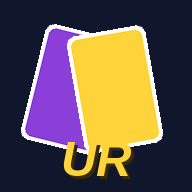
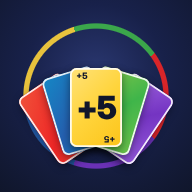
Ícone novo do app e prévia bonita dos links (WhatsApp etc.), com o nome da sala
Claude-Session: https://claude.ai/code/session_017JtU8DGBfDivVCDgt9k8ra

diff --git a/servidor/servidor.js b/servidor/servidor.js
@@ -21,19 +21,35 @@ const ESPERA_SALA = 3 * 60 * 1000;      // na sala de espera, quem caiu (ex.: fo
 const log = (...a) => console.log(new Date().toISOString().slice(11, 19), ...a);
 
 // ---------------- site ----------------
-const MIME = { '.html': 'text/html; charset=utf-8', '.js': 'text/javascript', '.css': 'text/css', '.webp': 'image/webp', '.png': 'image/png', '.mp3': 'audio/mpeg', '.json': 'application/json', '.svg': 'image/svg+xml', '.ico': 'image/x-icon', '.webmanifest': 'application/manifest+json' };
+const MIME = { '.html': 'text/html; charset=utf-8', '.js': 'text/javascript', '.css': 'text/css', '.webp': 'image/webp', '.png': 'image/png', '.jpg': 'image/jpeg', '.mp3': 'audio/mpeg', '.json': 'application/json', '.svg': 'image/svg+xml', '.ico': 'image/x-icon', '.webmanifest': 'application/manifest+json' };
 const CABECALHO = '<!doctype html><html lang="pt-BR"><head><meta charset="utf-8">'
   + '<meta name="viewport" content="width=device-width, initial-scale=1, viewport-fit=cover"><base href="/">'
   + '<meta name="theme-color" content="#10162B"><link rel="manifest" href="/manifest.webmanifest">'
-  + '<link rel="icon" href="/icone-192.png"><link rel="apple-touch-icon" href="/icone-192.png">'
+  + '<link rel="icon" href="/icone-192.png"><link rel="apple-touch-icon" href="/icone-180.png">'
   + '<meta name="apple-mobile-web-app-capable" content="yes"><meta name="mobile-web-app-capable" content="yes">'
   + '<meta name="apple-mobile-web-app-status-bar-style" content="black-translucent"><meta name="apple-mobile-web-app-title" content="Uno Resenhas">'
   + '<style>:root{padding-top:env(safe-area-inset-top,0px);padding-bottom:env(safe-area-inset-bottom,0px)}body{margin:0}img{max-width:100%}[hidden]{display:none!important}</style>';
+// Prévia do link (WhatsApp, Telegram, Instagram…): título, texto e a imagem og.jpg.
+// No link de uma sala, o título diz o nome da sala.
+const escHtml = (t) => String(t).replace(/[&<>"]/g, (c) => ({ '&': '&amp;', '<': '&lt;', '>': '&gt;', '"': '&quot;' }[c]));
+function previa(req, caminho) {
+  const proto = String(req.headers['x-forwarded-proto'] || 'http').split(',')[0];
+  const base = `${proto}://${req.headers.host}`;
+  const sala = caminho.startsWith('/s/') ? salas.get(caminho.slice(3, 8).toUpperCase()) : null;
+  const titulo = sala ? `Entra na mesa "${sala.nome}" · Uno Resenhas` : 'Uno Resenhas';
+  const texto = sala ? `Bora jogar! Sala ${sala.codigo}${sala.config.salaAberta ? ' · sala aberta' : ''}. 5 cores, +5, Ctrl+C e muita resenha.` : '5 cores, +5, Ctrl+C e muita resenha. Jogue online com os amigos, direto no navegador.';
+  const t = escHtml(titulo), d = escHtml(texto);
+  return `<meta name="description" content="${d}"><meta property="og:type" content="website"><meta property="og:site_name" content="Uno Resenhas">`
+    + `<meta property="og:title" content="${t}"><meta property="og:description" content="${d}"><meta property="og:url" content="${escHtml(base + caminho)}">`
+    + `<meta property="og:image" content="${base}/og.jpg"><meta property="og:image:width" content="1200"><meta property="og:image:height" content="630">`
+    + `<meta name="twitter:card" content="summary_large_image"><meta name="twitter:title" content="${t}"><meta name="twitter:description" content="${d}"><meta name="twitter:image" content="${base}/og.jpg">`;
+}
 const servidor = http.createServer((req, res) => {
   const url = new URL(req.url, 'http://x');
   let caminho = decodeURIComponent(url.pathname);
   if (caminho === '/saude') { res.writeHead(200, { 'content-type': 'text/plain' }); return res.end('ok'); }
   if (caminho === '/salas') { res.writeHead(200, { 'content-type': 'application/json', 'cache-control': 'no-store' }); return res.end(JSON.stringify(salasParaEntrar())); }
+  const pedido = caminho;
   if (caminho === '/' || caminho.startsWith('/s/')) caminho = '/index.html';
   const arquivo = path.join(RAIZ, path.normalize(caminho));
   if (!arquivo.startsWith(RAIZ)) { res.writeHead(403); return res.end(); }
@@ -42,7 +58,7 @@ const servidor = http.createServer((req, res) => {
     const ext = path.extname(arquivo).toLowerCase();
     // a página do jogo ganha o cabeçalho de site: tela de celular, ícone de app e base "/"
     // (a base faz as cartas carregarem também nos links de sala, /s/CODIGO)
-    if (arquivo.endsWith('index.html')) dados = Buffer.concat([Buffer.from(CABECALHO), dados]);
+    if (arquivo.endsWith('index.html')) dados = Buffer.concat([Buffer.from(CABECALHO + previa(req, pedido)), dados]);
     // tudo é conferido com o servidor (no-cache + ETag): arte nova de carta aparece na hora,
     // e o que não mudou volta como "304" (sem baixar de novo)
     const etag = '"' + createHash('md5').update(dados).digest('hex').slice(0, 16) + '"';

diff --git a/web/publico/sw.js b/web/publico/sw.js
@@ -1,7 +1,7 @@
 // Uno Resenhas — guarda cartas, sons e ícones no celular.
 // Sempre confere com o servidor primeiro (arte nova aparece na hora; o que não mudou volta
 // como "304", sem baixar de novo). Sem internet ou com o servidor lento, usa o que está guardado.
-const CACHE = 'uno-resenhas-v4'; // mude a versão quando trocar as artes das cartas
+const CACHE = 'uno-resenhas-v5'; // mude a versão quando trocar as artes das cartas
 const GUARDAR = /\/(cartas|cartas-min|sons)\/|\/icone-|manifest\.webmanifest$/;
 const ESPERA = 3000; // ms esperando o servidor antes de usar o guardado
 
